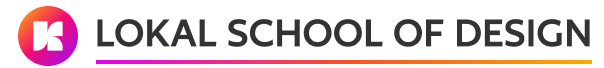
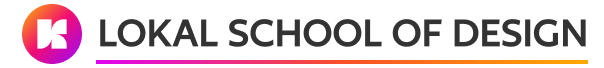
Update modal translation behavior

diff --git a/src/ui.tsx b/src/ui.tsx
@@ -747,7 +747,7 @@ function BrandingStrip() {
           className="flex h-[29px] w-[84px] flex-col items-center justify-between justify-self-center"
         >
           <p className="text-center text-[10px] leading-[11px] text-[rgba(110,110,104,0.6)]">
-            Translations using
+            Translations by
           </p>
           <img
             src={brandingTwo}
@@ -755,6 +755,46 @@ function BrandingStrip() {
             className="block h-[16px] w-auto max-w-none"
           />
         </a>
+      </div>
+    </div>
+  )
+}
+
+function UsageHintModal({
+  open,
+  onClose,
+  onContinue,
+}: {
+  open: boolean
+  onClose: () => void
+  onContinue: () => void
+}) {
+  if (!open) return null
+
+  return (
+    <div className="fixed inset-0 z-50 flex items-center justify-center bg-black/45" onClick={onClose}>
+      <div
+        className="w-[320px] rounded-xl border border-border bg-card px-4 py-4 shadow-[0_20px_44px_rgba(17,24,39,0.12),0_6px_18px_rgba(17,24,39,0.06)]"
+        onClick={event => event.stopPropagation()}
+      >
+        <div className="space-y-4">
+          <p className="text-center text-sm leading-relaxed text-muted-foreground">
+            Rename a layer to <span className="font-medium text-foreground">&quot;hing&quot;</span> for transliteration, <span className="font-medium text-foreground">&quot;dnd&quot;</span> to skip translation and change to the target font style, or <span className="font-medium text-foreground">&quot;lma&quot;</span> to leave it alone.
+          </p>
+
+          <div className="flex gap-2">
+            <button
+              type="button"
+              className="flex h-9 flex-1 items-center justify-center rounded-md border border-input bg-background px-4 text-sm font-medium text-foreground transition-colors hover:bg-muted"
+              onClick={onClose}
+            >
+              Close
+            </button>
+            <Button className="h-9 flex-1 rounded-md text-sm font-medium" onClick={onContinue}>
+              Got it
+            </Button>
+          </div>
+        </div>
       </div>
     </div>
   )
@@ -784,6 +824,9 @@ function Plugin() {
   const [availableStyles, setAvailableStyles] = React.useState<Array<{ id: string; name: string; sizeStr?: string }>>([])
   const [sourceStyles, setSourceStyles] = React.useState<Array<{ key: string; font: string; size: number; lh: number | null; weight: string; decoration?: string; segmentCount?: number }>>([])
   const [styleMappings, setStyleMappings] = React.useState<Record<string, Record<string, string>>>({})
+  const [hasSeenUsageHint, setHasSeenUsageHint] = React.useState(false)
+  const [showUsageHintModal, setShowUsageHintModal] = React.useState(false)
+  const [pendingUsageAction, setPendingUsageAction] = React.useState<'translate' | 'bulk' | null>(null)
   const cardRailWrapperRef = React.useRef<HTMLDivElement | null>(null)
   const cardRailViewportRef = React.useRef<HTMLDivElement | null>(null)
   const cardRefs = React.useRef<Record<string, HTMLButtonElement | null>>({})
@@ -887,6 +930,7 @@ function Plugin() {
     parent.postMessage({ pluginMessage: { type: 'get-bulk-prefs' } }, '*')
     parent.postMessage({ pluginMessage: { type: 'get-font-prefs' } }, '*')
     parent.postMessage({ pluginMessage: { type: 'get-style-mappings' } }, '*')
+    parent.postMessage({ pluginMessage: { type: 'get-usage-hint-state' } }, '*')
   }, [])
 
   React.useEffect(() => {
@@ -968,6 +1012,9 @@ function Plugin() {
         case 'style-mappings-saved':
           setStyleMappings(msg.mappings && typeof msg.mappings === 'object' ? msg.mappings : {})
           break
+        case 'usage-hint-state-loaded':
+          setHasSeenUsageHint(Boolean(msg.seen))
+          break
         case 'hard-reset-complete':
           setBulkLanguages(DEFAULT_BULK_LANGUAGES)
           setBulkSetupSelection(DEFAULT_BULK_LANGUAGES)
@@ -976,6 +1023,9 @@ function Plugin() {
           setStyleMappings({})
           setSourceStyles([])
           setAssumeEnglishSource(false)
+          setHasSeenUsageHint(false)
+          setShowUsageHintModal(false)
+          setPendingUsageAction(null)
           break
       }
     }
@@ -983,7 +1033,7 @@ function Plugin() {
     return () => window.removeEventListener('message', handler)
   }, [])
 
-  const handleTranslate = () => {
+  const runTranslate = () => {
     if (isBulkRunning) {
       notifyInFigma('Please wait for bulk translate to finish before starting translate.', true)
       return
@@ -1001,7 +1051,16 @@ function Plugin() {
     }}, '*')
   }
 
-  const handleBulkStressTest = () => {
+  const handleTranslate = () => {
+    if (!hasSeenUsageHint) {
+      setPendingUsageAction('translate')
+      setShowUsageHintModal(true)
+      return
+    }
+    runTranslate()
+  }
+
+  const runBulkStressTest = () => {
     if (isTranslateRunning) {
       notifyInFigma('Please wait for translate to finish before starting bulk translate.', true)
       return
@@ -1020,6 +1079,27 @@ function Plugin() {
     parent.postMessage({ pluginMessage: {
       type: 'bulk-translate-all', bulkLanguages: activeBulkLanguages, assumeEnglish: assumeEnglishSource,
     }}, '*')
+  }
+
+  const handleBulkStressTest = () => {
+    if (!hasSeenUsageHint) {
+      setPendingUsageAction('bulk')
+      setShowUsageHintModal(true)
+      return
+    }
+    runBulkStressTest()
+  }
+
+  const handleUsageHintContinue = () => {
+    parent.postMessage({ pluginMessage: { type: 'dismiss-usage-hint' } }, '*')
+    setHasSeenUsageHint(true)
+    setShowUsageHintModal(false)
+    setPendingUsageAction(null)
+  }
+
+  const handleUsageHintClose = () => {
+    setShowUsageHintModal(false)
+    setPendingUsageAction(null)
   }
 
   const handleBulkSetupSave = () => {
@@ -1077,8 +1157,8 @@ function Plugin() {
         <div className={`px-5 py-4 ${isDedicatedPrefsPage ? 'flex h-full min-h-0 flex-col' : ''}`}>
           <div className={isDedicatedPrefsPage ? 'flex min-h-0 flex-1 flex-col' : 'space-y-4'}>
             {page === 'translate' || page === 'fontSwap' ? (
-              <div className="space-y-[10px] pt-1">
-                <div className="flex items-end gap-5">
+              <div className="space-y-[8px] pt-1">
+                <div className="flex items-end gap-[18px]">
                   <button
                     type="button"
                     onClick={() => setPage('translate')}
@@ -1169,13 +1249,6 @@ function Plugin() {
                           <Languages className="h-4 w-4" />
                         </button>
                       </div>
-                    </div>
-
-                    <div className="flex gap-3 rounded-lg border border-border bg-muted/50 px-3 py-2.5">
-                      <Info className="h-4 w-4 shrink-0 text-muted-foreground mt-0.5" />
-                      <p className="text-xs text-muted-foreground leading-relaxed">
-                        Rename a layer to <span className="font-medium text-foreground">&quot;hing&quot;</span> for transliteration, <span className="font-medium text-foreground">&quot;dnd&quot;</span> to skip translation and preserve original styles, or <span className="font-medium text-foreground">&quot;lma&quot;</span> to leave it alone.
-                      </p>
                     </div>
 
                     {showWeightMappings && weightMappingInfo.length > 0 && (
@@ -1389,7 +1462,7 @@ function Plugin() {
         </div>
       </div>
       {page === 'translate' ? (
-        <div className="flex items-center gap-4 bg-background px-5 pb-2 pt-2">
+        <div className="flex items-center gap-4 bg-background px-5 pb-3 pt-2">
           <button
             type="button"
             className="text-[11px] text-muted-foreground underline transition-colors hover:text-foreground"
@@ -1405,6 +1478,16 @@ function Plugin() {
             onClick={() => setAssumeEnglishSource(prev => !prev)}
           >
             Assume English: {assumeEnglishSource ? 'On' : 'Off'}
+          </button>
+          <button
+            type="button"
+            className="text-[11px] text-muted-foreground underline transition-colors hover:text-foreground"
+            onClick={() => {
+              setPendingUsageAction(null)
+              setShowUsageHintModal(true)
+            }}
+          >
+            Help
           </button>
         </div>
       ) : null}
@@ -1429,6 +1512,11 @@ function Plugin() {
           setFontSwapPicker(null)
         }}
         loading={fontsLoading}
+      />
+      <UsageHintModal
+        open={showUsageHintModal}
+        onClose={handleUsageHintClose}
+        onContinue={handleUsageHintContinue}
       />
     </div>
   )

diff --git a/src/output.css b/src/output.css
@@ -7183,6 +7183,9 @@
   .w-\[300px\] {
     width: 300px;
   }
+  .w-\[320px\] {
+    width: 320px;
+  }
   .w-\[360px\] {
     width: 360px;
   }
@@ -7549,6 +7552,9 @@
   .gap-\[8px\] {
     gap: 8px;
   }
+  .gap-\[18px\] {
+    gap: 18px;
+  }
   .gap-\[20px\] {
     gap: 20px;
   }
@@ -7606,6 +7612,13 @@
       --tw-space-y-reverse: 0;
       margin-block-start: calc(calc(var(--spacing) * 4) * var(--tw-space-y-reverse));
       margin-block-end: calc(calc(var(--spacing) * 4) * calc(1 - var(--tw-space-y-reverse)));
+    }
+  }
+  .space-y-\[8px\] {
+    :where(& > :not(:last-child)) {
+      --tw-space-y-reverse: 0;
+      margin-block-start: calc(8px * var(--tw-space-y-reverse));
+      margin-block-end: calc(8px * calc(1 - var(--tw-space-y-reverse)));
     }
   }
   .space-y-\[10px\] {
@@ -7971,6 +7984,12 @@
   .bg-background {
     background-color: var(--background);
   }
+  .bg-black\/45 {
+    background-color: color-mix(in srgb, #000 45%, transparent);
+    @supports (color: color-mix(in lab, red, red)) {
+      background-color: color-mix(in oklab, var(--color-black) 45%, transparent);
+    }
+  }
   .bg-black\/50 {
     background-color: color-mix(in srgb, #000 50%, transparent);
     @supports (color: color-mix(in lab, red, red)) {
@@ -8023,6 +8042,12 @@
     background-color: var(--muted);
     @supports (color: color-mix(in lab, red, red)) {
       background-color: color-mix(in oklab, var(--muted) 20%, transparent);
+    }
+  }
+  .bg-muted\/40 {
+    background-color: var(--muted);
+    @supports (color: color-mix(in lab, red, red)) {
+      background-color: color-mix(in oklab, var(--muted) 40%, transparent);
     }
   }
   .bg-muted\/50 {
@@ -8744,6 +8769,10 @@
   }
   .shadow-\[0_20px_42px_rgba\(17\,24\,39\,0\.045\)\,0_6px_18px_rgba\(17\,24\,39\,0\.025\)\] {
     --tw-shadow: 0 20px 42px var(--tw-shadow-color, rgba(17,24,39,0.045)), 0 6px 18px var(--tw-shadow-color, rgba(17,24,39,0.025));
+    box-shadow: var(--tw-inset-shadow), var(--tw-inset-ring-shadow), var(--tw-ring-offset-shadow), var(--tw-ring-shadow), var(--tw-shadow);
+  }
+  .shadow-\[0_20px_44px_rgba\(17\,24\,39\,0\.12\)\,0_6px_18px_rgba\(17\,24\,39\,0\.06\)\] {
+    --tw-shadow: 0 20px 44px var(--tw-shadow-color, rgba(17,24,39,0.12)), 0 6px 18px var(--tw-shadow-color, rgba(17,24,39,0.06));
     box-shadow: var(--tw-inset-shadow), var(--tw-inset-ring-shadow), var(--tw-ring-offset-shadow), var(--tw-ring-shadow), var(--tw-shadow);
   }
   .shadow-\[0_20px_44px_rgba\(17\,24\,39\,0\.045\)\,0_6px_18px_rgba\(17\,24\,39\,0\.02\)\] {

diff --git a/src/output.css.d.ts b/src/output.css.d.ts
@@ -170,6 +170,7 @@ declare const styles: {
   readonly "bg-accent/12": string;
   readonly "bg-accent/15": string;
   readonly "bg-background": string;
+  readonly "bg-black/45": string;
   readonly "bg-black/50": string;
   readonly "bg-black/55": string;
   readonly "bg-border": string;
@@ -185,6 +186,7 @@ declare const styles: {
   readonly "bg-gray-100": string;
   readonly "bg-muted": string;
   readonly "bg-muted/20": string;
+  readonly "bg-muted/40": string;
   readonly "bg-muted/50": string;
   readonly "bg-muted/60": string;
   readonly "bg-muted/70": string;
@@ -496,6 +498,7 @@ declare const styles: {
   readonly "gap-4": string;
   readonly "gap-5": string;
   readonly "gap-6": string;
+  readonly "gap-[18px]": string;
   readonly "gap-[20px]": string;
   readonly "gap-[2px]": string;
   readonly "gap-[4px]": string;
@@ -2695,6 +2698,7 @@ declare const styles: {
   readonly "shadow-[0_18px_34px_rgba(17,24,39,0.12),0_4px_12px_rgba(17,24,39,0.06)]": string;
   readonly "shadow-[0_20px_42px_rgba(17,24,39,0.045),0_6px_18px_rgba(17,24,39,0.025)]": string;
   readonly "shadow-[0_20px_44px_rgba(17,24,39,0.045),0_6px_18px_rgba(17,24,39,0.02)]": string;
+  readonly "shadow-[0_20px_44px_rgba(17,24,39,0.12),0_6px_18px_rgba(17,24,39,0.06)]": string;
   readonly "shadow-[0_22px_46px_rgba(17,24,39,0.05),0_8px_20px_rgba(17,24,39,0.03)]": string;
   readonly "shadow-[0_24px_80px_rgba(0,0,0,0.28)]": string;
   readonly "shadow-[0px_-2px_12px_0px_rgba(0,0,0,0.08)]": string;
@@ -2748,6 +2752,7 @@ declare const styles: {
   readonly "space-y-3": string;
   readonly "space-y-4": string;
   readonly "space-y-[10px]": string;
+  readonly "space-y-[8px]": string;
   readonly "space-y-px": string;
   readonly "spin": string;
   readonly "sr-only": string;
@@ -3235,6 +3240,7 @@ declare const styles: {
   readonly "w-[269px]": string;
   readonly "w-[2px]": string;
   readonly "w-[300px]": string;
+  readonly "w-[320px]": string;
   readonly "w-[32px]": string;
   readonly "w-[360px]": string;
   readonly "w-[50px]": string;

diff --git a/src/main.ts b/src/main.ts
@@ -225,6 +225,7 @@ async function getLibraryTextStyleById(styleId: string): Promise<TextStyle | nul
 // Font prefs cache (loaded at start of translate, updated on save)
 let fontPrefsCache: Record<string, string> | null = null
 const FONT_PREFS_KEY = 'ai-translate-font-prefs'
+const USAGE_HINT_SEEN_KEY = 'ai-translate-usage-hint-seen'
 
 async function loadFontPrefs(): Promise<Record<string, string>> {
   try {
@@ -2406,6 +2407,22 @@ figma.ui.onmessage = async (msg) => {
       figma.ui.postMessage({ type: 'font-prefs-loaded', fontPrefs: {} })
     }
     return
+  } else if (msg.type === 'get-usage-hint-state') {
+    try {
+      const seen = await figma.clientStorage.getAsync(USAGE_HINT_SEEN_KEY)
+      figma.ui.postMessage({ type: 'usage-hint-state-loaded', seen: Boolean(seen) })
+    } catch {
+      figma.ui.postMessage({ type: 'usage-hint-state-loaded', seen: false })
+    }
+    return
+  } else if (msg.type === 'dismiss-usage-hint') {
+    try {
+      await figma.clientStorage.setAsync(USAGE_HINT_SEEN_KEY, true)
+      figma.ui.postMessage({ type: 'usage-hint-state-loaded', seen: true })
+    } catch {
+      figma.ui.postMessage({ type: 'usage-hint-state-loaded', seen: true })
+    }
+    return
   } else if (msg.type === 'save-font-prefs') {
     try {
       const prefs = msg.fontPrefs && typeof msg.fontPrefs === 'object' ? (msg.fontPrefs as Record<string, string>) : {}
@@ -2438,6 +2455,7 @@ figma.ui.onmessage = async (msg) => {
       await figma.clientStorage.deleteAsync('ai-translate-bulk-languages')
       await figma.clientStorage.deleteAsync(FONT_PREFS_KEY)
       await figma.clientStorage.deleteAsync(STYLE_MAPPINGS_KEY)
+      await figma.clientStorage.deleteAsync(USAGE_HINT_SEEN_KEY)
       fontPrefsCache = {}
       styleMappingsCache = null
       const keys = await figma.clientStorage.keysAsync()
